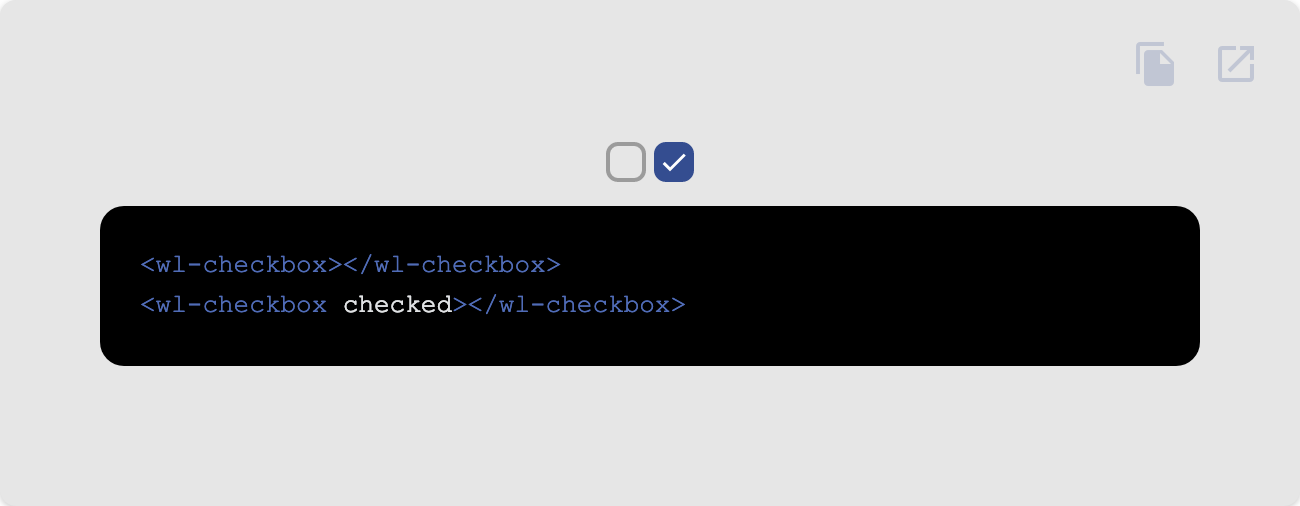
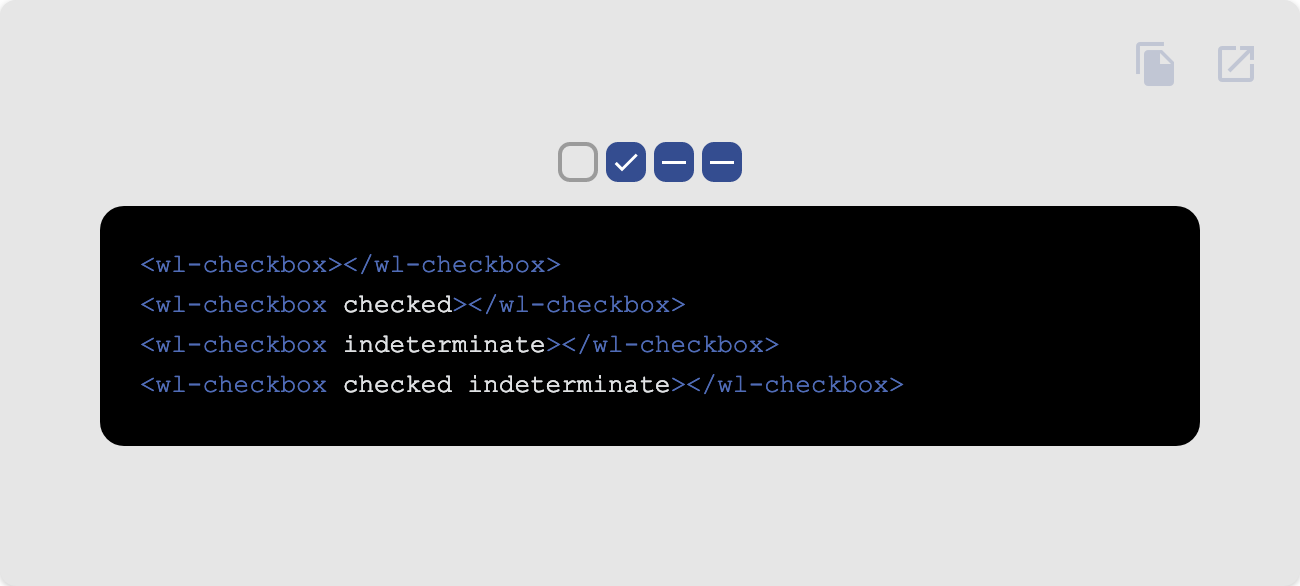
Added new screenshots and docs.

diff --git a/src/lib/switch/switch-vars.scss b/src/lib/switch/switch-vars.scss
@@ -17,6 +17,6 @@ $switch-color-disabled-checked: var(--switch-color-disabled-checked, #{color("pr
 
 $switch-knob-size: var(--switch-knob-size, #{size(20)});
 $switch-knob-border-radius: var(--switch-knob-border-radius, 100%);
-$switch-knob-transition: var(--switch-knob-transition, transform #{$transition-duration-fast} #{$transition-deceleration-curve});
+$switch-knob-transition: var(--switch-knob-transition, background #{$transition-duration-fast} #{$transition-deceleration-curve}, transform #{$transition-duration-fast} #{$transition-deceleration-curve});
 $switch-knob-elevation: var(--switch-knob-elevation, #{elevation(2, #{$shadow})});
 $switch-ripple-transform: var(--switch-ripple-transform, translate(-50%, -50%) scale(1.8));

diff --git a/src/lib/switch/README.md b/src/lib/switch/README.md
@@ -1,7 +1,7 @@
 
-[![-----------------------------------------------------](https://raw.githubusercontent.com/andreasbm/readme/master/assets/lines/colored.png)](#wl-checkbox)
+[![-----------------------------------------------------](https://raw.githubusercontent.com/andreasbm/readme/master/assets/lines/colored.png)](#wl-switch)
 
-# ➤ wl-checkbox
+# ➤ wl-switch
 
 Turn an option on or off.
 
@@ -13,40 +13,13 @@ Turn an option on or off.
 | Property      | Attribute     | Type       | Default    | Description                                      |
 |---------------|---------------|------------|------------|--------------------------------------------------|
 | `ariaChecked` | `ariaChecked` | `string`   |            | Aria checked attribute.                          |
-| `checked`     | `checked`     | `boolean`  | false      | Checks the checkbox.                             |
+| `checked`     | `checked`     | `boolean`  | false      | Checks the switch.                               |
 | `disabled`    | `disabled`    | `boolean`  | false      | Disables the element.                            |
 | `name`        | `name`        | `string`   |            | Name of the native form element.                 |
 | `readonly`    | `readonly`    | `boolean`  | false      | Makes the element readonly (disabled but tabbable) |
 | `required`    | `required`    | `boolean`  | false      | Makes the element required in a form context.    |
-| `role`        | `role`        | `AriaRole` | "checkbox" | Role of the checkbox.                            |
+| `role`        | `role`        | `AriaRole` | "checkbox" | Role of the switch.                              |
 | `value`       | `value`       | `string`   | ""         | Value of the form element.                       |
-
-
-[![-----------------------------------------------------](https://raw.githubusercontent.com/andreasbm/readme/master/assets/lines/colored.png)](#css-custom-properties)
-
-## ➤ CSS Custom Properties
-
-| Property                              | Description                                  |
-|---------------------------------------|----------------------------------------------|
-| `--checkbox-bg`                       | Default background.                          |
-| `--checkbox-bg-checked`               | Background when checked.                     |
-| `--checkbox-bg-disabled`              | Background when disabled.                    |
-| `--checkbox-bg-disabled-checked`      | Background when disabled and checked         |
-| `--checkbox-border-config`            | Border configuration (width and style)       |
-| `--checkbox-border-radius`            | Border radius.                               |
-| `--checkbox-checkmark-path-dasharray` | Dasharray of the checkmark.                  |
-| `--checkbox-checkmark-path-delay`     | Transition delay of the checkmark animation. |
-| `--checkbox-checkmark-path-width`     | Width of the checkmark.                      |
-| `--checkbox-checkmark-size`           | Width and height of the checkmark.           |
-| `--checkbox-checkmark-stroke-color`   | Color of the checkmark.                      |
-| `--checkbox-checkmark-transition`     | Transition of the checkmark.                 |
-| `--checkbox-color`                    | Default color.                               |
-| `--checkbox-color-checked`            | Color when checked.                          |
-| `--checkbox-color-disabled`           | Color when disabled.                         |
-| `--checkbox-color-disabled-checked`   | Color when disabled and checked.             |
-| `--checkbox-ripple-transform`         | Transform of the ripple.                     |
-| `--checkbox-size`                     | Width and height.                            |
-| `--checkbox-transition`               | Transition.                                  |
 
 
 
@@ -54,10 +27,10 @@ Turn an option on or off.
 
 ## ➤ Usage
 
-Go [here](https://weightless.dev/elements/checkbox) to try the demo.
+Go [here](https://weightless.dev/elements/switch) to try the demo.
 
-<a href="https://weightless.dev/elements/checkbox" align="center">
-  <img src="https://raw.githubusercontent.com/andreasbm/elements/master/screenshots/wl-checkbox.png" width="700" />
+<a href="https://weightless.dev/elements/switch" align="center">
+  <img src="https://raw.githubusercontent.com/andreasbm/elements/master/screenshots/wl-switch.png" width="700" />
 </a>
 
 

diff --git a/README.md b/README.md
@@ -74,7 +74,7 @@ If you prefer to use the `umd` bundle you can import `https://unpkg.com/weightle
 | Banner           | `wl-banner`           | Display a non-interruptive message and related optional actions. | [Documentation](/src/lib/banner)           | [Demo](https://weightless.dev/elements/banner)   |
 | Button           | `wl-button`           | Allow users to take actions, and make choices, with a single tap. | [Documentation](/src/lib/button)           | [Demo](https://weightless.dev/elements/button)   |
 | Card             | `wl-card`             | Group related content and action.                | [Documentation](/src/lib/card)             | [Demo](https://weightless.dev/elements/card)     |
-| Switch         | `wl-checkbox`         | Turn an option on or off.                        | [Documentation](/src/lib/checkbox)         | [Demo](https://weightless.dev/elements/checkbox) |
+| Checkbox         | `wl-checkbox`         | Turn an option on or off.                        | [Documentation](/src/lib/checkbox)         | [Demo](https://weightless.dev/elements/checkbox) |
 | Dialog           | `wl-dialog`           | Highly interruptive messages.                    | [Documentation](/src/lib/dialog)           | [Demo](https://weightless.dev/elements/dialog)   |
 | Divider          | `wl-divider`          | Thin line that groups content in lists and layouts. | [Documentation](/src/lib/divider)          | [Demo](https://weightless.dev/elements/divider)  |
 | Expansion        | `wl-expansion`        | Provide an expandable details-summary view.      | [Documentation](/src/lib/expansion)        | [Demo](https://weightless.dev/elements/expansion) |
@@ -90,6 +90,7 @@ If you prefer to use the `umd` bundle you can import `https://unpkg.com/weightle
 | Ripple           | `wl-ripple`           | Indicate touch actions.                          | [Documentation](/src/lib/ripple)           | [Demo](https://weightless.dev/elements/ripple)   |
 | Select           | `wl-select`           | Select one or more values from a set of options. | [Documentation](/src/lib/select)           | [Demo](https://weightless.dev/elements/select)   |
 | Snackbar         | `wl-snackbar`         | Provide brief messages at the bottom of the screen. | [Documentation](/src/lib/snackbar)         | [Demo](https://weightless.dev/elements/snackbar) |
+| Switch           | `wl-switch`           | Turn an option on or off.                        | [Documentation](/src/lib/switch)           | [Demo](https://weightless.dev/elements/switch)   |
 | Textarea         | `wl-textarea`         | Multiline text fields.                           | [Documentation](/src/lib/textarea)         | [Demo](https://weightless.dev/elements/textarea) |
 | Textfield        | `wl-textfield`        | Singleline text fields.                          | [Documentation](/src/lib/textfield)        | [Demo](https://weightless.dev/elements/textfield) |
 | Title            | `wl-title`            | Indicate the start of a new section.             | [Documentation](/src/lib/title)            | [Demo](https://weightless.dev/elements/title)    |

diff --git a/src/lib/checkbox/README.md b/src/lib/checkbox/README.md
@@ -10,16 +10,17 @@ Turn an option on or off.
 
 ## ➤ Properties
 
-| Property      | Attribute     | Type       | Default    | Description                                      |
-|---------------|---------------|------------|------------|--------------------------------------------------|
-| `ariaChecked` | `ariaChecked` | `string`   |            | Aria checked attribute.                          |
-| `checked`     | `checked`     | `boolean`  | false      | Checks the checkbox.                             |
-| `disabled`    | `disabled`    | `boolean`  | false      | Disables the element.                            |
-| `name`        | `name`        | `string`   |            | Name of the native form element.                 |
-| `readonly`    | `readonly`    | `boolean`  | false      | Makes the element readonly (disabled but tabbable) |
-| `required`    | `required`    | `boolean`  | false      | Makes the element required in a form context.    |
-| `role`        | `role`        | `AriaRole` | "checkbox" | Role of the checkbox.                            |
-| `value`       | `value`       | `string`   | ""         | Value of the form element.                       |
+| Property        | Attribute       | Type       | Default    | Description                                      |
+|-----------------|-----------------|------------|------------|--------------------------------------------------|
+| `ariaChecked`   | `ariaChecked`   | `string`   |            | Aria checked attribute.                          |
+| `checked`       | `checked`       | `boolean`  | false      | Checks the switch.                               |
+| `disabled`      | `disabled`      | `boolean`  | false      | Disables the element.                            |
+| `indeterminate` | `indeterminate` | `boolean`  | false      | Indeterminate checkbox state.                    |
+| `name`          | `name`          | `string`   |            | Name of the native form element.                 |
+| `readonly`      | `readonly`      | `boolean`  | false      | Makes the element readonly (disabled but tabbable) |
+| `required`      | `required`      | `boolean`  | false      | Makes the element required in a form context.    |
+| `role`          | `role`          | `AriaRole` | "checkbox" | Role of the switch.                              |
+| `value`         | `value`         | `string`   | ""         | Value of the form element.                       |
 
 
 [![-----------------------------------------------------](https://raw.githubusercontent.com/andreasbm/readme/master/assets/lines/colored.png)](#css-custom-properties)

diff --git a/src/lib/radio/README.md b/src/lib/radio/README.md
@@ -13,7 +13,7 @@ Select one option from a set.
 | Property      | Attribute     | Type       | Default | Description                                      |
 |---------------|---------------|------------|---------|--------------------------------------------------|
 | `ariaChecked` | `ariaChecked` | `string`   |         | Aria checked attribute.                          |
-| `checked`     | `checked`     | `boolean`  | false   | Checks the checkbox.                             |
+| `checked`     | `checked`     | `boolean`  | false   | Checks the switch.                               |
 | `disabled`    | `disabled`    | `boolean`  | false   | Disables the element.                            |
 | `name`        | `name`        | `string`   |         | Name of the native form element.                 |
 | `readonly`    | `readonly`    | `boolean`  | false   | Makes the element readonly (disabled but tabbable) |

diff --git a/src/lib/switch/blueprint.md b/src/lib/switch/blueprint.md
@@ -1,4 +1,4 @@
-{{ doc:src/lib/checkbox/switch.ts }}
+{{ doc:src/lib/switch/switch.ts }}
 
 ## Usage
 
